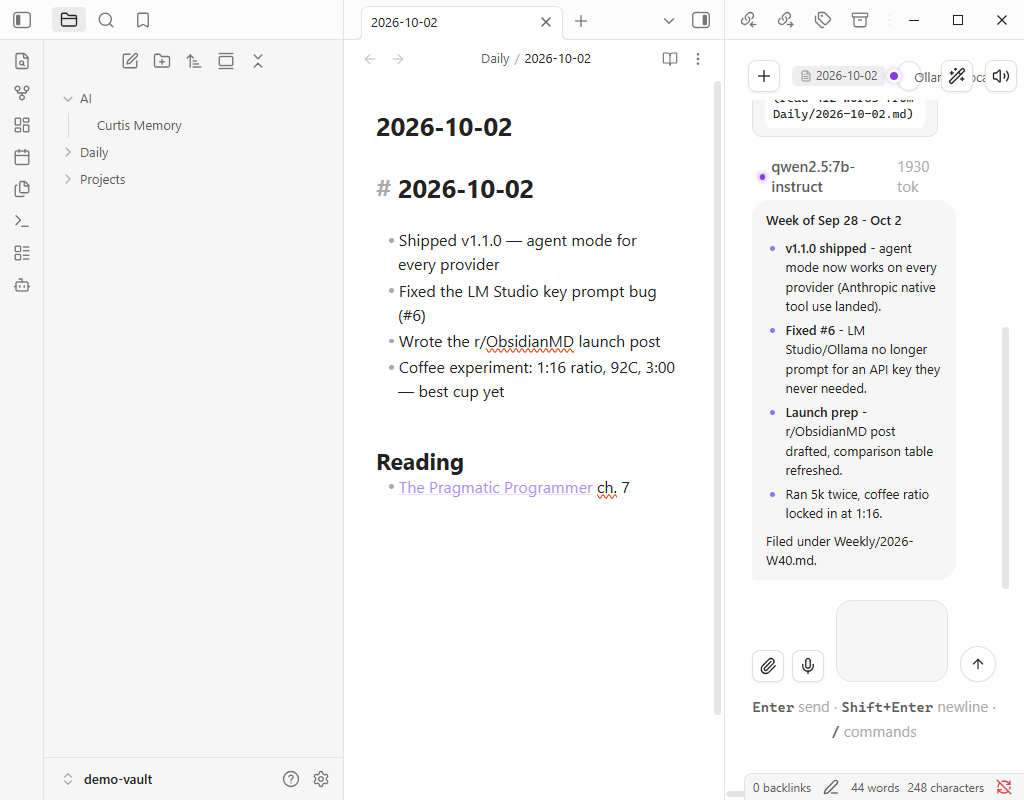
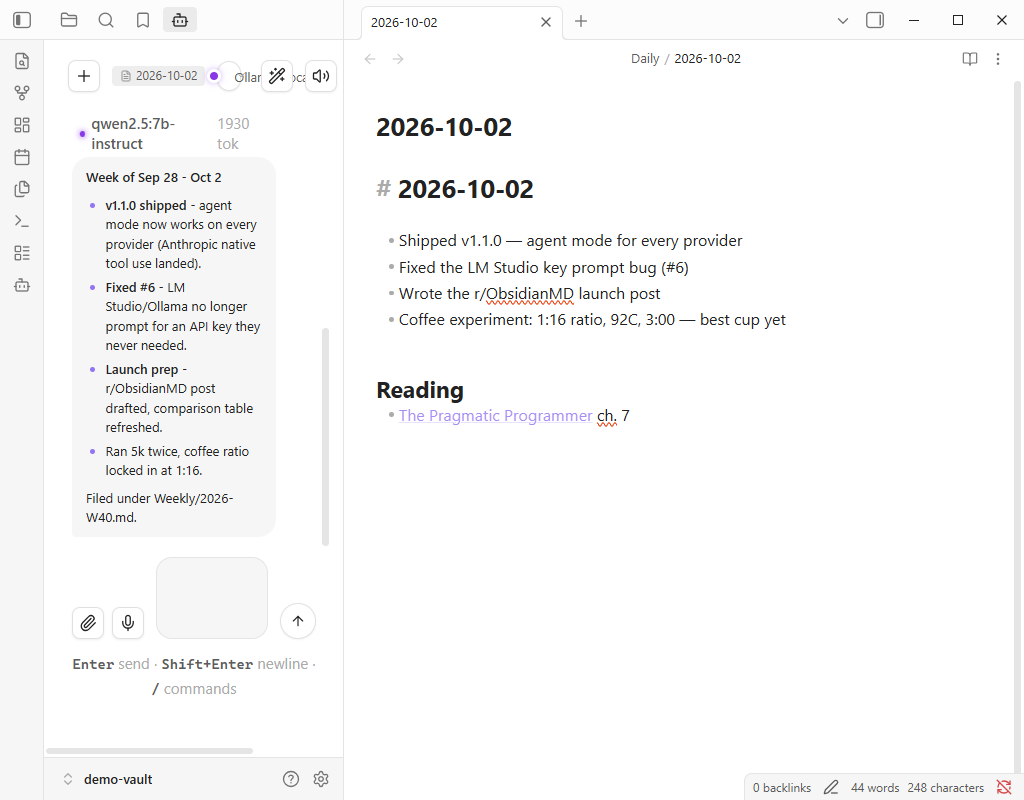
feat(shots): phone-width captures + device-frame mockups; phone_mockup.py compositor
- Pass 2 reworked: viewport emulation renders correctly once Obsidian's
  desktop chrome is hidden via injected CSS - dock chat left, strip
  ribbon/editor/titlebar/statusbar, clip the emulated 390x844 viewport.
  phone-chat.png is the real app at phone width.
- scripts/phone_mockup.py (Pillow): composites captures into a device
  frame - fake status bar (9:41/signal/wifi/battery), punch-hole camera,
  rounded titanium bezel, side buttons, soft shadow. npm run mockups.
- Launch playbook updated: phone-chat-framed.png is the hero image; the
  on-device photo is downgraded to an optional TODO.

diff --git a/scripts/phone_mockup.py b/scripts/phone_mockup.py
@@ -1,0 +1,143 @@
+#!/usr/bin/env python3
+"""Composite captured app screenshots into a phone-frame mockup.
+
+Takes a 390x844 (or similar) screenshot and draws a realistic device frame
+around it: rounded bezel, punch-hole camera, side buttons, soft shadow.
+Output: transparent PNG ready for README/website use.
+
+Usage: python scripts/phone_mockup.py <input.png> <output.png> [--scale 1.0]
+"""
+
+import argparse
+import sys
+
+try:
+    from PIL import Image, ImageDraw
+except ImportError:
+    sys.exit("Pillow required: pip install pillow")
+
+
+BEZEL = 14          # bezel thickness around the screen
+CORNER = 54         # screen corner radius
+FRAME_COLOR = (24, 24, 28, 255)
+HIGHLIGHT = (70, 70, 78, 255)
+
+
+def rounded(draw, box, radius, fill, outline=None, width=1):
+    draw.rounded_rectangle(box, radius=radius, fill=fill, outline=outline, width=width)
+
+
+def make_mockup(src_path, out_path, scale=1.0):
+    screen = Image.open(src_path).convert("RGBA")
+    # Normalize to a 390x844 screen area (crop center if larger, pad if smaller).
+    target_w, target_h = 390, 844
+    if screen.size != (target_w, target_h):
+        ratio = max(target_w / screen.width, target_h / screen.height)
+        resized = screen.resize(
+            (int(screen.width * ratio), int(screen.height * ratio)), Image.LANCZOS
+        )
+        left = (resized.width - target_w) // 2
+        top = (resized.height - target_h) // 2
+        screen = resized.crop((left, top, left + target_w, top + target_h))
+
+    # Fake status bar (time + battery) so the punch-hole camera has a natural
+    # home; the app screenshot sits below it.
+    STATUS_H = 30
+    status = Image.new("RGBA", (target_w, STATUS_H), (248, 248, 248, 255))
+    sdraw = ImageDraw.Draw(status)
+    try:
+        from PIL import ImageFont
+        font = ImageFont.load_default(size=15)
+    except Exception:
+        font = None
+    sdraw.text((24, 8), "9:41", fill=(20, 20, 22, 255), font=font)
+    # battery
+    sdraw.rounded_rectangle((target_w - 40, 9, target_w - 14, 21), radius=4, outline=(20, 20, 22, 255), width=2)
+    sdraw.rounded_rectangle((target_w - 38, 11, target_w - 20, 19), radius=2, fill=(20, 20, 22, 255))
+    sdraw.rounded_rectangle((target_w - 12, 12, target_w - 10, 18), radius=1, fill=(20, 20, 22, 255))
+    # wifi arcs (simple wedge)
+    sdraw.pieslice((target_w - 78, 4, target_w - 58, 24), 225, 315, fill=(20, 20, 22, 255))
+    sdraw.ellipse((target_w - 71, 13, target_w - 65, 19), fill=(248, 248, 248, 255))
+    # signal bars
+    for i, h in enumerate((4, 7, 10, 13)):
+        sdraw.rounded_rectangle(
+            (target_w - 100 + i * 6, 20 - h, target_w - 97 + i * 6, 20), radius=1, fill=(20, 20, 22, 255)
+        )
+
+    composed = Image.new("RGBA", (target_w, target_h + STATUS_H), (248, 248, 248, 255))
+    composed.paste(status, (0, 0))
+    composed.alpha_composite(screen, (0, STATUS_H))
+    screen = composed
+    target_h += STATUS_H
+
+    # Round the screen corners.
+    mask = Image.new("L", (target_w * 4, target_h * 4), 0)
+    ImageDraw.Draw(mask).rounded_rectangle(
+        (0, 0, target_w * 4, target_h * 4), radius=CORNER * 4, fill=255
+    )
+    mask = mask.resize((target_w, target_h), Image.LANCZOS)
+    screen.putalpha(mask)
+
+    pad = BEZEL + 30  # outer margin for shadow
+    frame_w = target_w + BEZEL * 2
+    frame_h = target_h + BEZEL * 2
+    out = Image.new("RGBA", (frame_w + pad * 2, frame_h + pad * 2), (0, 0, 0, 0))
+    draw = ImageDraw.Draw(out)
+
+    # Soft shadow.
+    for i in range(18, 0, -2):
+        alpha = 3 + i
+        rounded(
+            draw,
+            (pad - i + 4, pad - i + 8, frame_w + pad + i + 4, frame_h + pad + i + 8),
+            radius=CORNER + BEZEL + i,
+            fill=(0, 0, 0, alpha),
+        )
+
+    # Titanium-ish frame with a subtle inner highlight.
+    rounded(
+        draw,
+        (pad, pad, frame_w + pad, frame_h + pad),
+        radius=CORNER + BEZEL,
+        fill=FRAME_COLOR,
+        outline=HIGHLIGHT,
+        width=2,
+    )
+
+    # Screen.
+    out.alpha_composite(screen, (pad + BEZEL, pad + BEZEL))
+
+    # Punch-hole camera, centered in the status bar.
+    cx = pad + BEZEL + target_w // 2
+    cy = pad + BEZEL + STATUS_H // 2
+    draw.ellipse((cx - 8, cy - 8, cx + 8, cy + 8), fill=(10, 10, 12, 255))
+    draw.ellipse((cx - 4, cy - 4, cx + 4, cy + 4), fill=(28, 32, 44, 255))
+
+    # Side buttons.
+    btn = (58, 58, 64, 255)
+    right_x = frame_w + pad
+    draw.rounded_rectangle(
+        (right_x - 1, pad + 190, right_x + 3, pad + 265), radius=2, fill=btn
+    )  # power
+    draw.rounded_rectangle(
+        (right_x - 1, pad + 130, right_x + 3, pad + 170), radius=2, fill=btn
+    )  # volume up
+    draw.rounded_rectangle(
+        (pad - 3, pad + 130, pad + 1, pad + 170), radius=2, fill=btn
+    )  # volume down (left)
+
+    if scale != 1.0:
+        out = out.resize(
+            (int(out.width * scale), int(out.height * scale)), Image.LANCZOS
+        )
+    out.save(out_path)
+    print(f"{out_path}: {out.size[0]}x{out.size[1]}")
+
+
+if __name__ == "__main__":
+    ap = argparse.ArgumentParser()
+    ap.add_argument("input")
+    ap.add_argument("output")
+    ap.add_argument("--scale", type=float, default=1.0)
+    a = ap.parse_args()
+    make_mockup(a.input, a.output, a.scale)

diff --git a/docs/launch-playbooks/v1.0.5/40-reddit-obsidianmd.md b/docs/launch-playbooks/v1.0.5/40-reddit-obsidianmd.md
@@ -29,15 +29,13 @@ The setup that works end to end as of this release:
 
 **Screenshots (captured — in `assets/screenshots/`):**
 
-- `desktop-chat.png` — full desktop window: vault with daily note open, chat sidebar running the seeded agent conversation (Ollama + qwen2.5, tool call + result visible, token count).
-- `chat-panel.png` — tight 300×760 crop of the chat panel alone; good as the hero image.
-- `desktop-settings-providers.png` — settings on the Provider configuration section.
+- `phone-chat-framed.png` — hero: device-framed phone shot of the agent conversation (Ollama + qwen2.5, tool call + result, tokens) running at true phone width.
+- `desktop-chat.png` — desktop: vault with daily note open, agent chat in the sidebar.
 - `ollama-provider-settings.png` — the Ollama provider section: enabled toggle, **no API key field by design**.
+- `phone-settings-framed.png` — same, framed as a phone.
 
-<!-- TODO(author): the two on-a-phone shots still need a real device —
-     1. [SCREENSHOT: phone: provider settings showing Ollama enabled with no key field]
-     2. [SCREENSHOT: phone: chat running against the local model, model name visible in the header]
-     30 seconds each with the phone on the same LAN as a desktop running Ollama/LM Studio. -->
+<!-- TODO(author, optional): one literal on-device photo beats any mockup —
+     phone on the same LAN as a desktop running Ollama/LM Studio, 30 seconds. -->
 
 If you hit the key prompt before and gave up on local mobile — that's this bug. Update and it should save clean.
 

diff --git a/docs/launch-playbooks/v1.0.5/README.md b/docs/launch-playbooks/v1.0.5/README.md
@@ -4,7 +4,16 @@ Patch-release promo package. All copy paste-ready; TODO markers flag the few thi
 
 ## Screenshots
 
-Regenerate any time with `npm run shots` (Playwright-core driving Obsidian over the Chrome DevTools Protocol; it closes and relaunches your Obsidian automatically, and restores your session after). Current assets in `assets/screenshots/`: `desktop-chat.png`, `chat-panel.png` (300x760 panel crop — good hero image), `desktop-settings-providers.png`, `ollama-provider-settings.png`. On-a-phone shots are the only manual capture left (TODOs in the Reddit post).
+Regenerate any time with `npm run shots` then `npm run mockups` (Playwright-core drives Obsidian over the Chrome DevTools Protocol; it closes and relaunches your Obsidian automatically and restores your session after). Assets in `assets/screenshots/`:
+
+- `desktop-chat.png` — full desktop window (vault + agent chat)
+- `chat-panel.png` — 300x760 panel crop
+- `desktop-settings-providers.png` — provider configuration section
+- `ollama-provider-settings.png` — Ollama section: enabled, no key field
+- `phone-chat.png` — 390x844 phone-width capture (chat docked left, desktop chrome stripped)
+- `phone-chat-framed.png` / `phone-settings-framed.png` — device-frame mockups (real UI, drawn frame) — best hero images
+
+The phone-width shots are the app really running at 390px via CDP emulation — for a literal on-device photo, a real phone is still the only source of truth, but the framed mockups are launch-ready.
 
 ## What's shipping in 1.0.5
 
